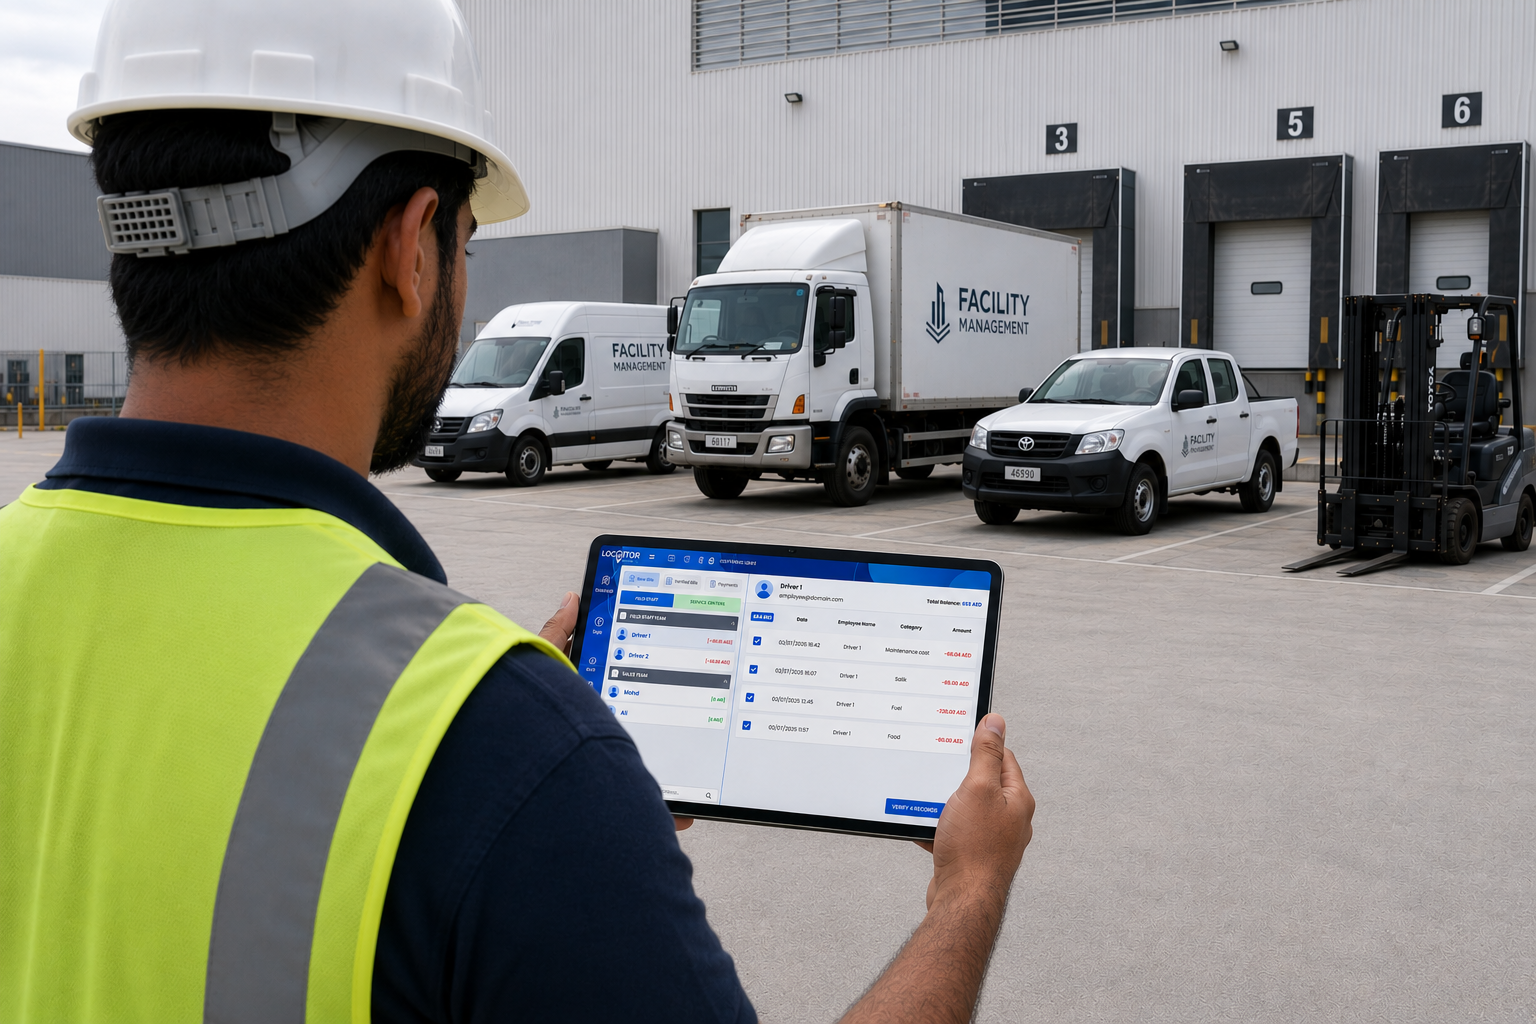
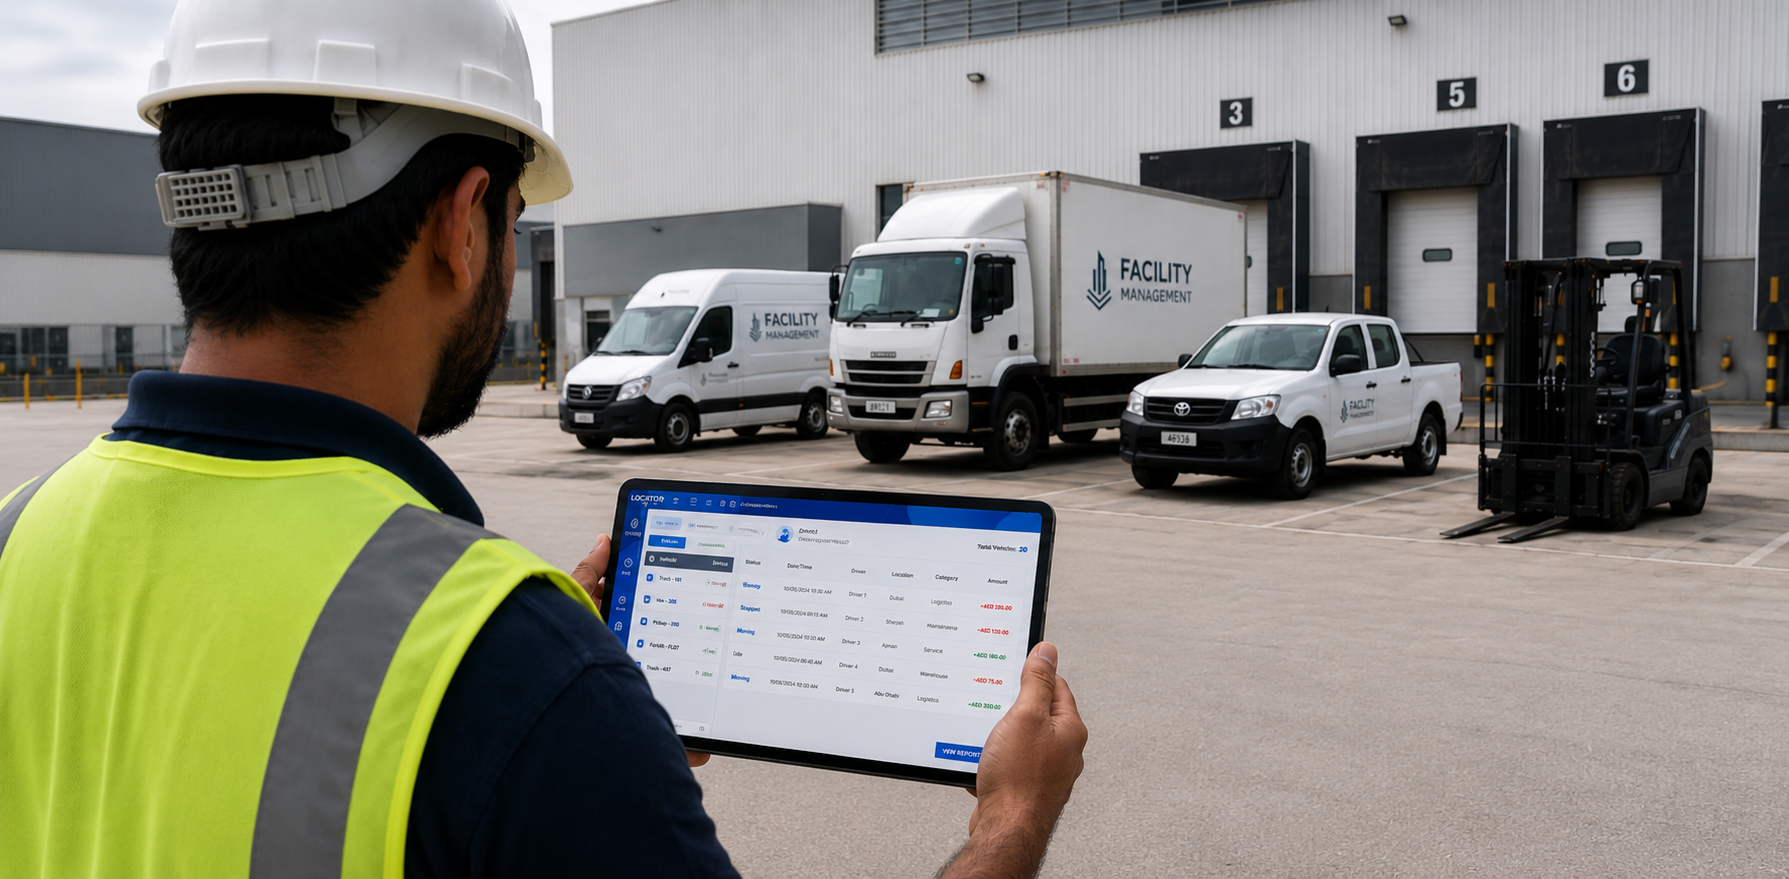
Service industries: FMCG_2 + Rental photo, all images at natural aspect
- FMCG now uses FMCG_2.png; add Rental & Leasing photo.
- Every industry photo renders at its true aspect ratio (no crop) via
  intrinsic width/height, matching the FMCG section.
- Refresh the re-exported sector images.

diff --git a/src/components/service/ServiceIndustries.tsx b/src/components/service/ServiceIndustries.tsx
@@ -17,6 +17,10 @@ interface Industry {
   vehicles: string[]
   count: number
   image?: string   // real screenshot; falls back to the built-in map card
+  // When set, the photo is shown at its natural aspect ratio (no crop) using
+  // these intrinsic dimensions; otherwise it fills a fixed-height cover frame.
+  imageW?: number
+  imageH?: number
 }
 
 const INDUSTRIES: Industry[] = [
@@ -27,7 +31,9 @@ const INDUSTRIES: Industry[] = [
     desc: 'GPS fleet telematics helps vans, pickups, mini-trucks, delivery bikes track distributors and supermarket deliveries live. It reduces fuel loss, improves route planning, automates maintenance, monitors drivers, and prevents delivery delays, giving FMCG companies in UAE full control over sales teams and daily stock movement.',
     vehicles: ['Delivery vans', 'Pickups', 'Mini-trucks', 'Delivery bikes'],
     count: 8,
-    image: '/service_page/FMCG D1.png',
+    image: '/service_page/FMCG_2.png',
+    imageW: 1790,
+    imageH: 879,
   },
   {
     id: 'transport',
@@ -37,6 +43,8 @@ const INDUSTRIES: Industry[] = [
     vehicles: ['Cars', 'Vans', 'Trucks', 'Buses', 'Bikes', 'Yachts'],
     count: 12,
     image: '/service_page/Transport  Logistics 2.png',
+    imageW: 1786,
+    imageH: 880,
   },
   {
     id: 'construction',
@@ -46,6 +54,8 @@ const INDUSTRIES: Industry[] = [
     vehicles: ['Trucks', 'Generators', 'Forklifts', 'Bulldozers', 'Boom loaders', 'JCBs'],
     count: 10,
     image: '/service_page/Construction Site Fleet.png',
+    imageW: 1790,
+    imageH: 879,
   },
   {
     id: 'facility',
@@ -55,6 +65,8 @@ const INDUSTRIES: Industry[] = [
     vehicles: ['Service vans', 'Cars', 'Pickup trucks', 'Forklifts', 'Generators', 'Boom loaders'],
     count: 9,
     image: '/service_page/Facility Management Fleet.png',
+    imageW: 1789,
+    imageH: 879,
   },
   {
     id: 'healthcare',
@@ -64,6 +76,8 @@ const INDUSTRIES: Industry[] = [
     vehicles: ['Ambulances', 'Cars', 'Vans', 'Delivery bikes', 'Mobile medical units'],
     count: 6,
     image: '/service_page/Healthcare Fleet Monitoring.png',
+    imageW: 1790,
+    imageH: 879,
   },
   {
     id: 'travel',
@@ -73,6 +87,8 @@ const INDUSTRIES: Industry[] = [
     vehicles: ['Tourist cars', 'Vans', 'Buses', 'Bikes', 'Yachts', 'Boats'],
     count: 7,
     image: '/service_page/Travel & Tourism.png',
+    imageW: 1790,
+    imageH: 879,
   },
   {
     id: 'rental',
@@ -81,6 +97,9 @@ const INDUSTRIES: Industry[] = [
     desc: 'Fleet telematics supports leased cars, vans, buses, bikes, trucks and boats. It tracks vehicle usage, monitors unauthorized trips, sends service alerts, and retrieves incident logs instantly. Rental companies in UAE benefit from reduced fraud, better asset utilization, improved maintenance scheduling, and faster claims resolution.',
     vehicles: ['Cars', 'Vans', 'Buses', 'Bikes', 'Trucks', 'Boats'],
     count: 15,
+    image: '/service_page/Rental Leasing.png',
+    imageW: 1790,
+    imageH: 879,
   },
   {
     id: 'petroleum',
@@ -579,30 +598,59 @@ export default function ServiceIndustries() {
             <div key={displayIdx} className="ind-viz-in ind-right-col" style={{ flex: 1, minWidth: 0 }}>
               <div ref={mapPxRef} style={{ willChange: 'transform' }}>
                 {ind.image ? (
-                  <div style={{
-                    position: 'relative',
-                    height: 'clamp(340px, 52vh, 580px)',
-                    borderRadius: '20px',
-                    overflow: 'hidden',
-                    border: '1px solid #e4e4e8',
-                    boxShadow: '0 30px 70px -28px rgba(20,40,90,.24), 0 4px 14px rgba(20,40,90,.06)',
-                    background: '#eef3fb',
-                  }}>
-                    {/* Light shimmer until the photo is decoded — never a white box */}
-                    {!loaded[ind.image] && <div className="ind-skeleton" aria-hidden="true" />}
-                    <Image
-                      src={ind.image}
-                      alt={`${ind.title.replace('\n', ' ')} fleet`}
-                      fill
-                      sizes={IMG_SIZES}
-                      onLoad={() => ind.image && markLoaded(ind.image)}
-                      style={{
-                        objectFit: 'cover',
-                        opacity: loaded[ind.image] ? 1 : 0,
-                        transition: 'opacity .4s ' + EASE,
-                      }}
-                    />
-                  </div>
+                  ind.imageW && ind.imageH ? (
+                    /* Natural aspect ratio — full photo, no crop (FMCG) */
+                    <div style={{
+                      position: 'relative',
+                      borderRadius: '20px',
+                      overflow: 'hidden',
+                      border: '1px solid #e4e4e8',
+                      boxShadow: '0 30px 70px -28px rgba(20,40,90,.24), 0 4px 14px rgba(20,40,90,.06)',
+                      background: '#eef3fb',
+                    }}>
+                      {!loaded[ind.image] && <div className="ind-skeleton" aria-hidden="true" />}
+                      <Image
+                        src={ind.image}
+                        alt={`${ind.title.replace('\n', ' ')} fleet`}
+                        width={ind.imageW}
+                        height={ind.imageH}
+                        sizes={IMG_SIZES}
+                        onLoad={() => ind.image && markLoaded(ind.image)}
+                        style={{
+                          width: '100%',
+                          height: 'auto',
+                          display: 'block',
+                          opacity: loaded[ind.image] ? 1 : 0,
+                          transition: 'opacity .4s ' + EASE,
+                        }}
+                      />
+                    </div>
+                  ) : (
+                    /* Fixed-height cover frame — every other industry */
+                    <div style={{
+                      position: 'relative',
+                      height: 'clamp(340px, 52vh, 580px)',
+                      borderRadius: '20px',
+                      overflow: 'hidden',
+                      border: '1px solid #e4e4e8',
+                      boxShadow: '0 30px 70px -28px rgba(20,40,90,.24), 0 4px 14px rgba(20,40,90,.06)',
+                      background: '#eef3fb',
+                    }}>
+                      {!loaded[ind.image] && <div className="ind-skeleton" aria-hidden="true" />}
+                      <Image
+                        src={ind.image}
+                        alt={`${ind.title.replace('\n', ' ')} fleet`}
+                        fill
+                        sizes={IMG_SIZES}
+                        onLoad={() => ind.image && markLoaded(ind.image)}
+                        style={{
+                          objectFit: 'cover',
+                          opacity: loaded[ind.image] ? 1 : 0,
+                          transition: 'opacity .4s ' + EASE,
+                        }}
+                      />
+                    </div>
+                  )
                 ) : (
                   <FleetMapCard count={ind.count} />
                 )}
